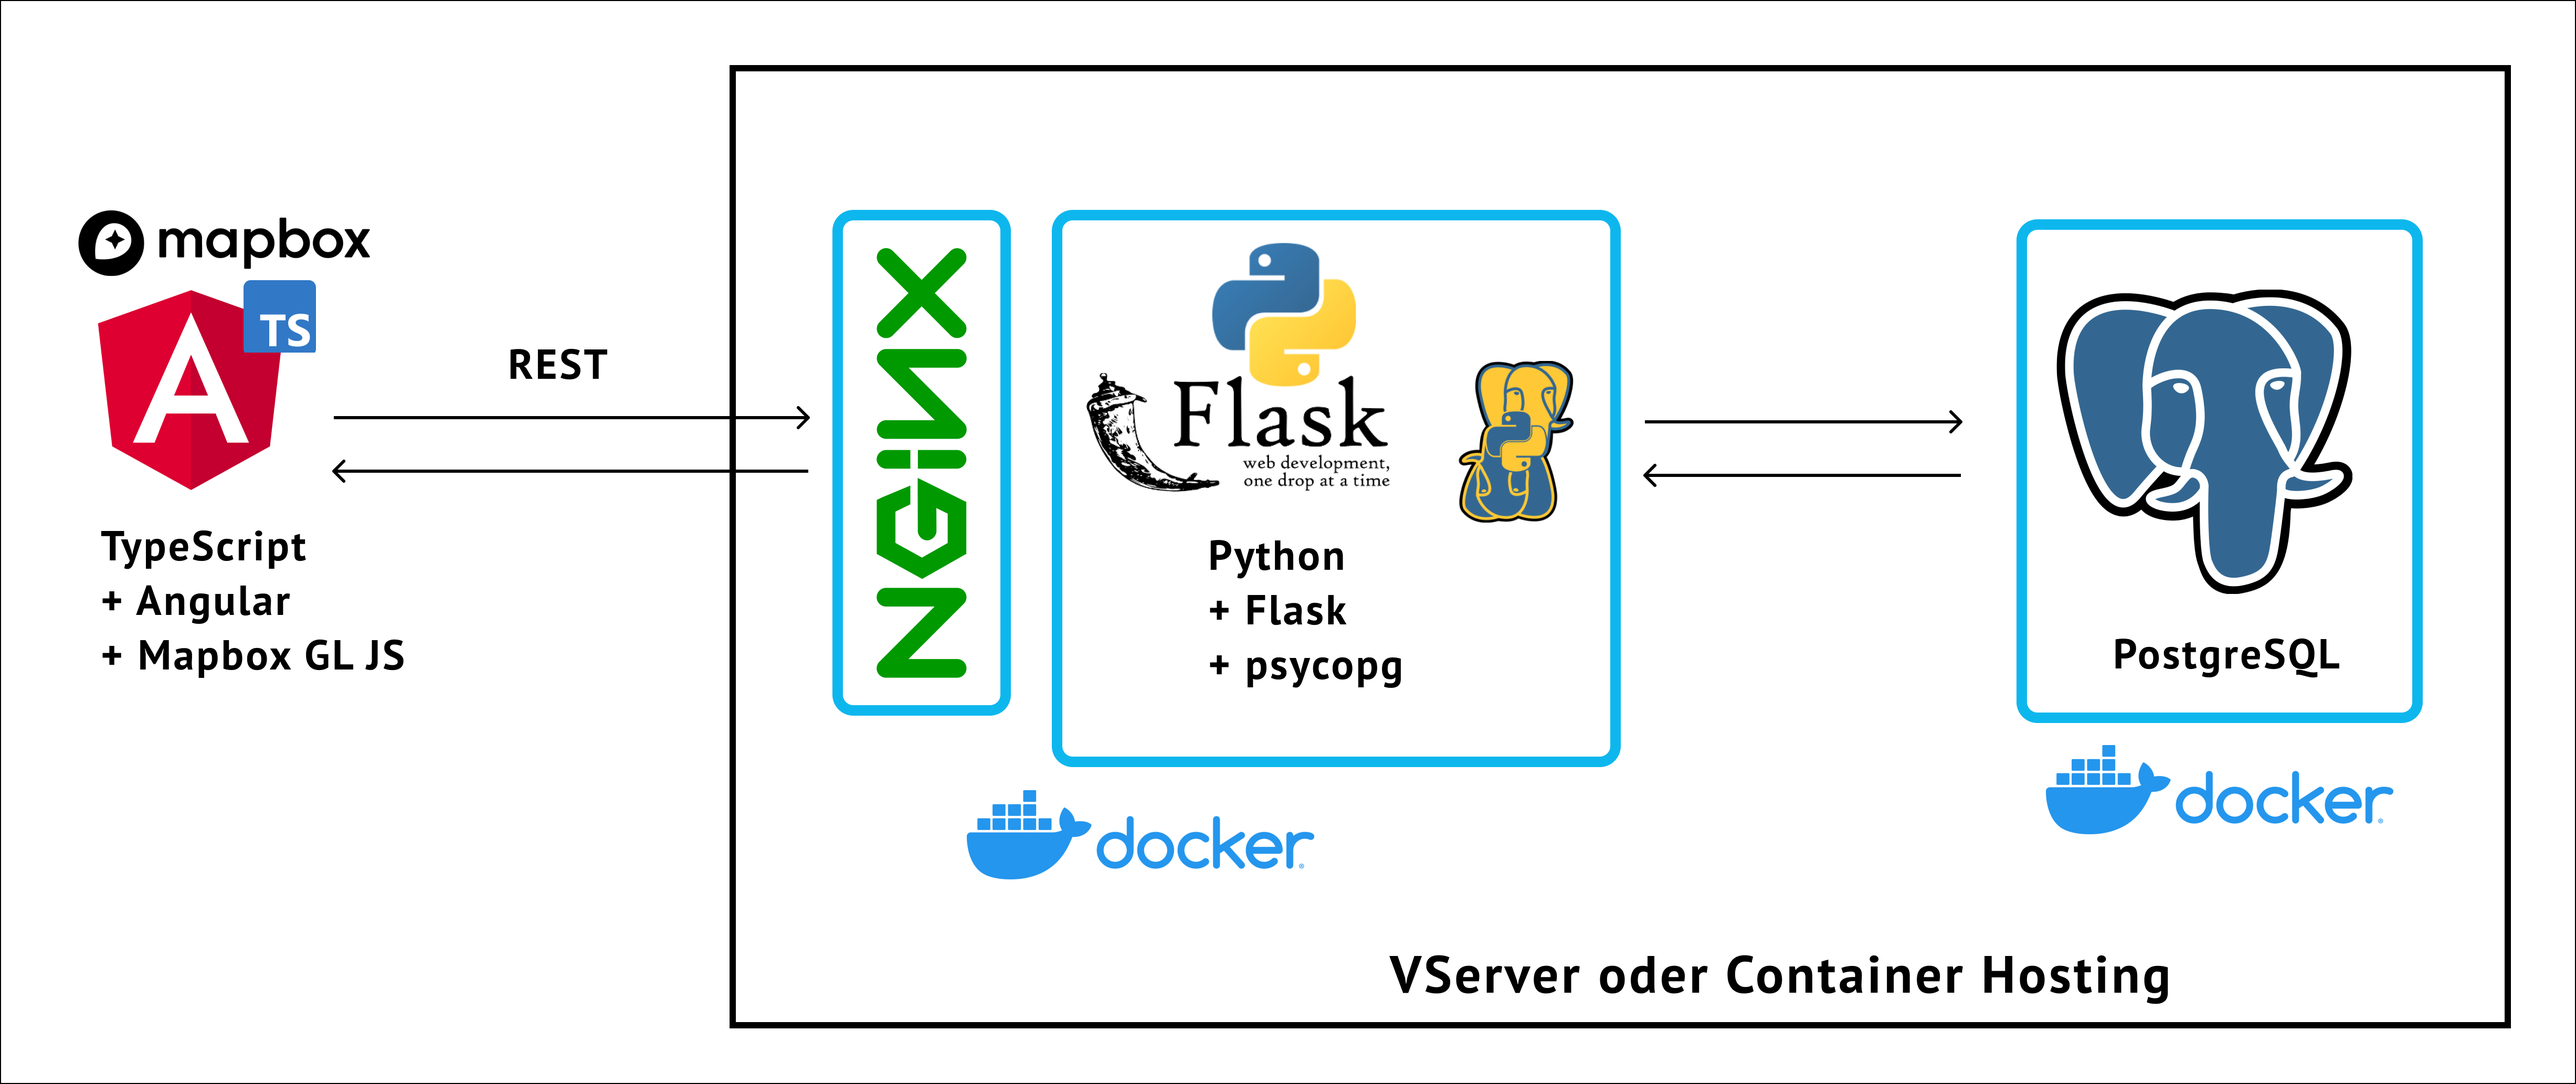
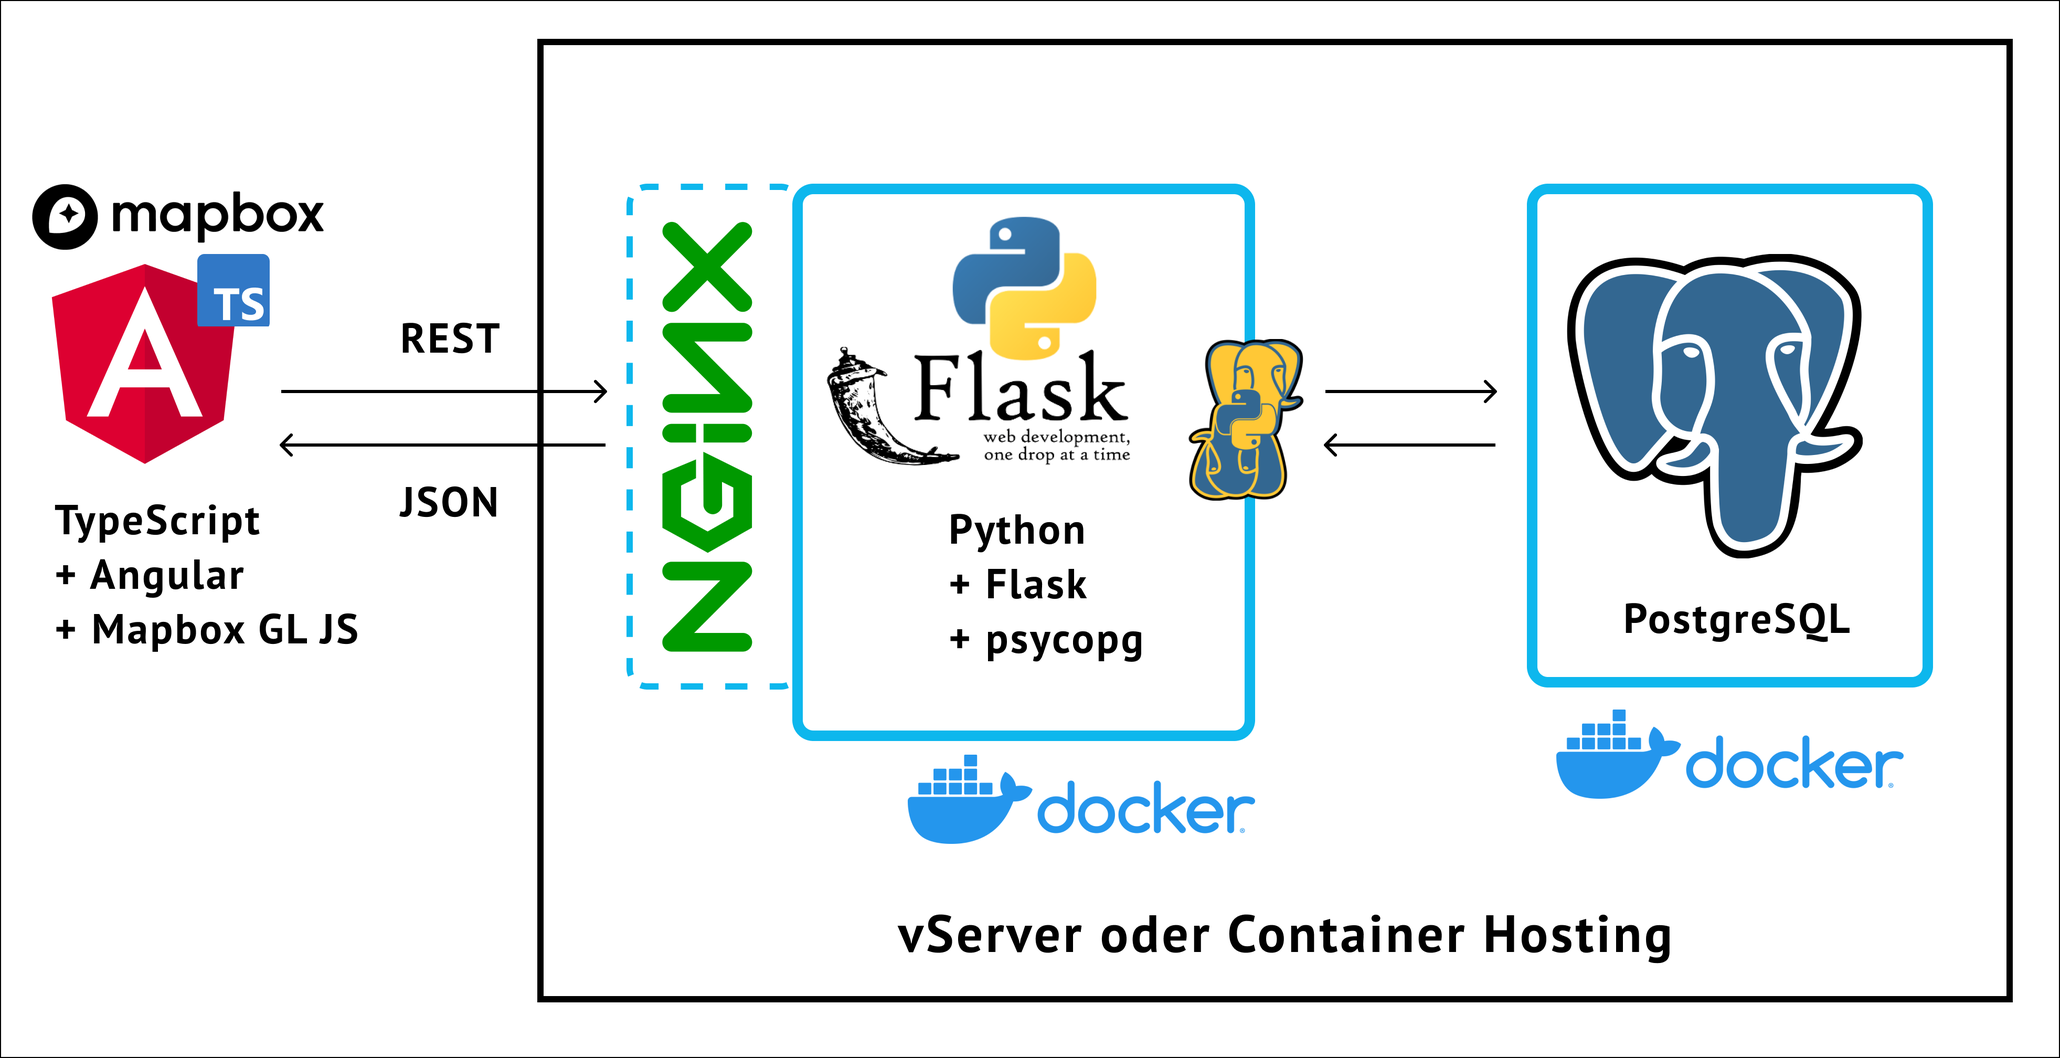
Refine Pflichtenheft and TechStack

Changed region(s): [[0.0, 0.0312, 0.9944, 0.9375], [0.435, 0.875, 0.839, 0.9375], [0.2486, 0.9375, 0.3107, 0.9688]]

diff --git a/Blatt3/Pflichtenheft.md b/Blatt3/Pflichtenheft.md
@@ -4,6 +4,7 @@
 
 ### Musskriterien
 - Speichern aller relevanten Daten (siehe Datenmodell) für die BTW
+  - insbesondere aggreggierte Ergebnisse pro Wahlkreis
 - Sitzverteilung des Bundestags
   - Berechnung der Verteilung auf die Parteien unter Beachtung von Sonderregeln:
     - Überhangsmandate (außer die ersten drei)
@@ -13,6 +14,8 @@
   - Visualisierung als Diagramm
   - Bestimmung des Mandatstyps (Überhangsmandat, Direktmandat, Listenmandat)
   - Besetzung der Sitze mit Kandidaten
+  - Neuberechnung mit Einzelstimmen in < 5s
+  - Neuberechnung mit Aggregationen in < 1s
 - Möglicher Vergleich aller Ausgaben (von 2021) mit der Wahl 2017
 - Stimmabgabe durch Benutzer
   - Einzeln
@@ -48,7 +51,7 @@
 ### Abgrenzungskriterien
 - keine Möglichkeit eigene (SQL-)Anfragen zu formulieren
 - keine Einzelstimmen für Wahlen vor 2021
-- keine Neuberechnung des Bundestags bei jeder Abfrage
+- keine Neuberechnung des Bundestags bei *jeder* Abfrage
 - keine personenbezogenen Daten (insbesondere über Wähler) speichern
 
 ## Technische Umsetzung
@@ -56,13 +59,20 @@
 ![Techstack](TechStack.png)
 
 ### Datenbankmanagementsystem
-- [PostgreSQL](https://www.postgresql.org/)
-  - für alle persistenten Daten
+- [PostgreSQL](https://www.postgresql.org/) zum Management aller persistenten 
+  Daten
+- Erstellung von Views für zu berechnende Daten. Zur Abfrage wird 
+  lediglich "SELECT * FROM view;" benötigt.
+  - Wahlkreissieger 
+  - Überhangsmandate
+  - Sitzverteilung
+  - Verschiedene Statistiken
 
 ### Backend
 - Python + [Flask](https://flask.palletsprojects.com/en/2.0.x/)
-  - Interpretation der REST-API Aufrufe
+  - Entegegennehmen der REST-API Aufrufe
   - Delegation zum DBMS ([psycopg](https://www.psycopg.org/))
+  - JSON als Nachrichtenformat
   - Berechnung der tatsächlichen Wahlkreisgrenzen als (konkaves) Polygon
 
 ### Frontend
@@ -70,14 +80,26 @@
 - [Mapbox GL JS](https://github.com/mapbox/mapbox-gl-js)
   - interaktive Map
   - Wahlkreisgrenzen als GeoJSON
+- Verschiedene Bibliotheken zur Visualisierung
+  - Balkendiagramme
+  - Sitzverteilung
 
 ### Infrastruktur
-- [nginx](https://www.nginx.com/) als Webserver
-- [Docker](https://www.docker.com/)
+- [nginx](https://www.nginx.com/) als Webserver für statische Dateien und 
+  das Frontend
+- [Docker](https://www.docker.com/) zum Verpacken und Ausführen der 
+  Komponenten als Container --> Erhöhte Portabilität
+- Alle Komponenten sollen auf einer Hostingplattform 
+  für Container / vServer gehostet werden.
 
 ## Datenmodell
 
 ![UML-Entwurf](Entwurf.png)
+
+### Hinweise zur Zugangsberechtigung
+
+- Stimmabgaben sind nur in Kombination mit einem gültigen Schlüssel möglich.
+- Es werden keine Nutzerkonten verwaltet.
 
 ## GUI-Mockup
 [Link zu Figma](https://www.figma.com/file/mWyTVjiFh8bLU6Wr6T6HrN/Datenbankenprojekt?node-id=0%3A1)

diff --git a/Blatt3/Lastenheft.md b/Blatt3/Lastenheft.md
@@ -45,7 +45,8 @@ Grundsätzlich wird identische Funktionalität für die BTW 2017 (und älter) wi
 	- keine Anfragen durch Endnutzer
 - **Performance**:
 	- geeignet für knapp 2*60Mio. Stimmeingaben innerhalb des Wahlzeitfensters
-	- (Neu-)Berechnung der genauen Sizverteilung im Bundestag innerhalb von 2s (Speichermedium: SSD)
+	- (Neu-)Berechnung der genauen Sizverteilung im Bundestag innerhalb von 
+      5s (Speichermedium: SSD)
 	- effiziente Analysen auf universellen Datenbanksystemen und Consumer-Hardware ermöglichen
     - Möglichkeit pro Wahlkreis Einzelstimmen zu Wahlkreisergebnissen vorzuaggregieren
 - **Supportability**:
